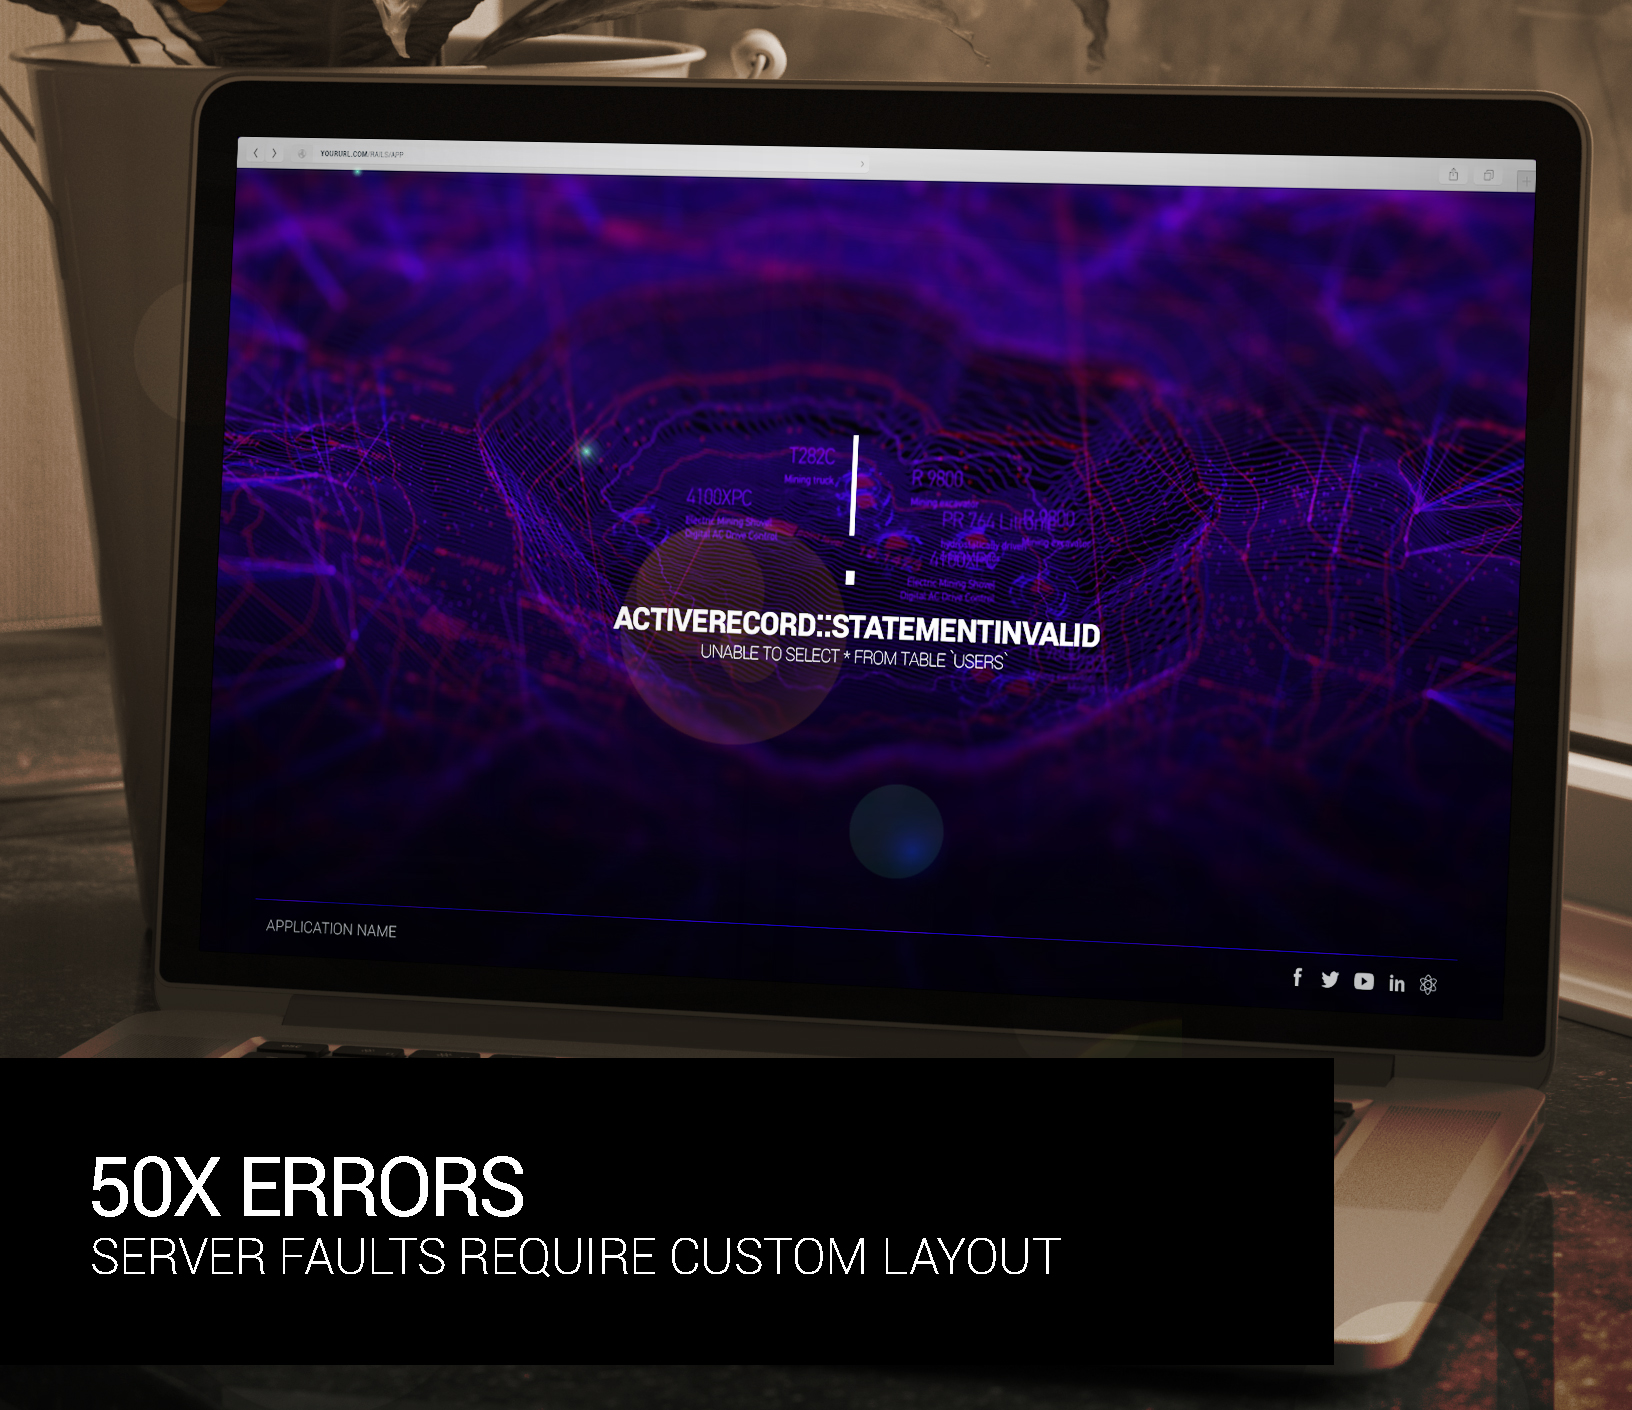
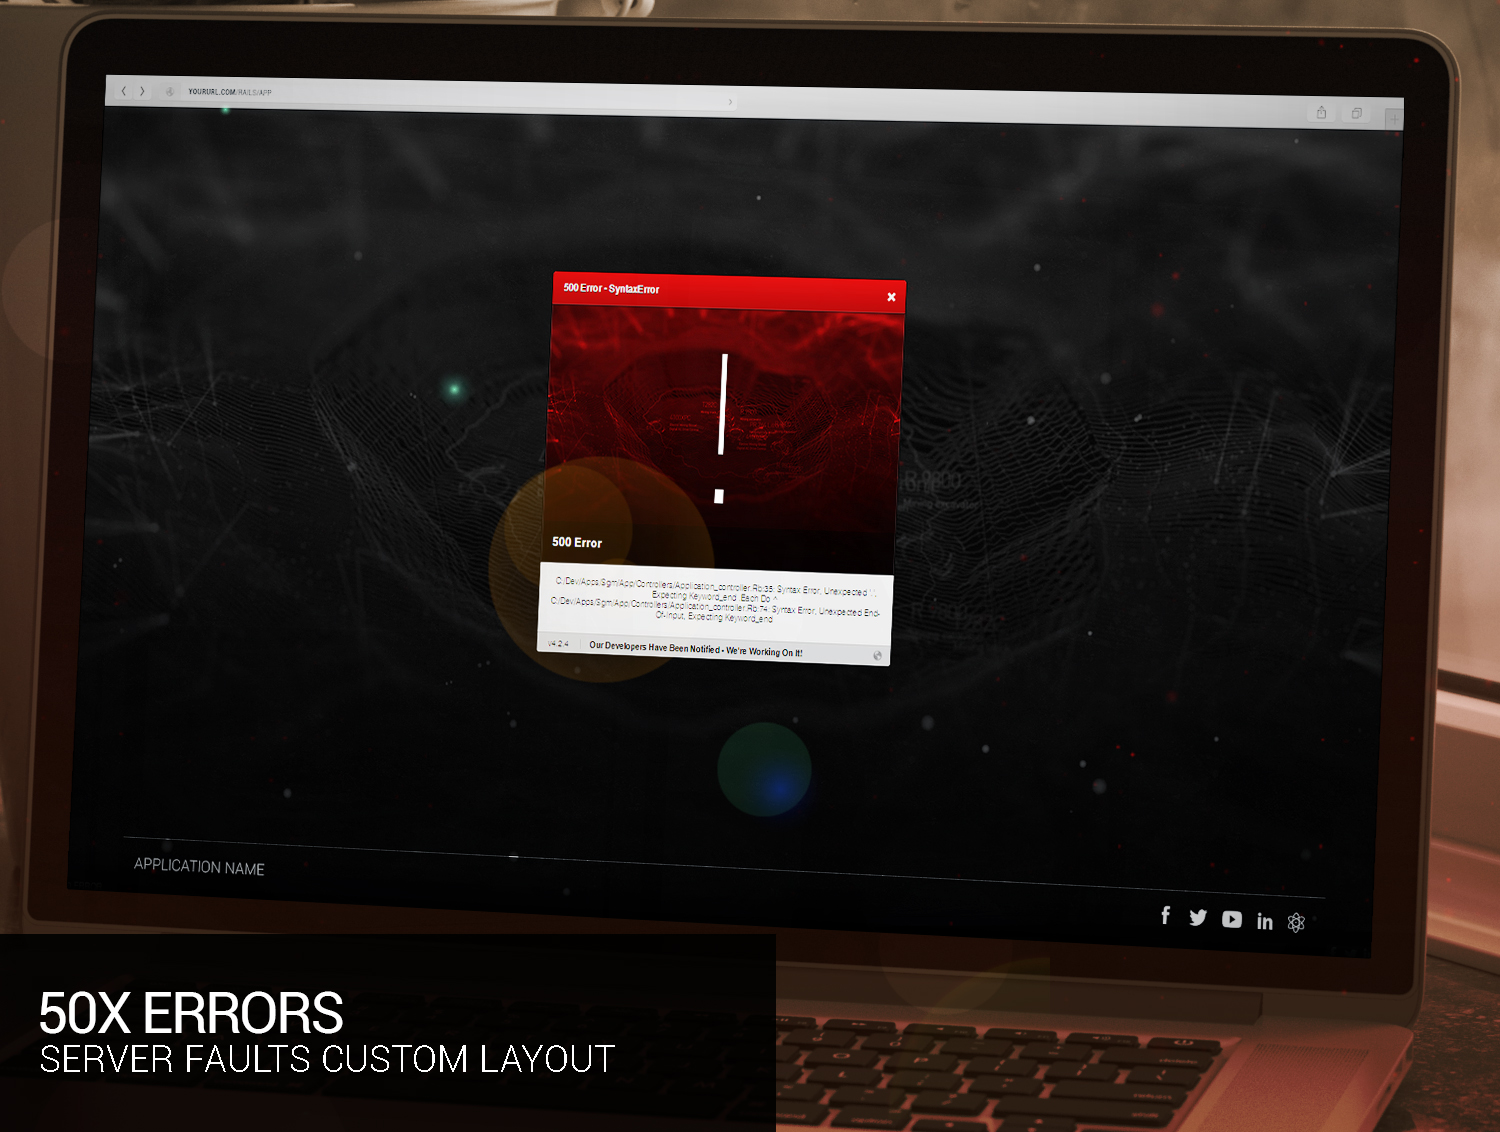
Added App

diff --git a/README.md b/README.md
@@ -23,30 +23,25 @@ It hooks into the **[`config.exceptions_app`](http://guides.rubyonrails.org/conf
 
 ![Exceptions_App middleware](/readme/exceptions_app.png)
 
-With **ExceptionHandler**, you can create custom **404, 500 production error pages**
+With **ExceptionHandler**, you can create custom **404 & 500 production error pages**:
 
 ![Exceptions_App middleware](/readme/subtitle.jpg)
 
 ---
 
-The standard Rails production error pages are not appealing, and ruin the branding of your app:
+**ExceptionHandler** catches errors in the middleware hook (`config.exceptions_app`), channeling the users to our [custom `exceptions` controller](blob/master/app/controllers/exception_handler/exception_controller.rb). It then dissects data such as the `message`, `details`, `user agent`, etc, redirect the user to a `custom view`, storing it in the db:
 
-![Exceptions_App middleware](/readme/current.png)
-
-**ExceptionHandler** catches errors in the middleware hook (`config.exceptions_app`), channeling the users to our [custom `exceptions` controller](blob/master/app/controllers/exception_handler/exception_controller.rb). Here, we dissect data such as the `message`, `details`, `user agent`, etc, redirect the user to a `custom view`, storing the data in the db.
-
-**404 Errors** | **50x Errors**
+**40x Errors** | **50x Errors**
 --- | ---
 ![404 Error Page](/readme/400.jpg "404 Error Page (Uses Application Layout)") | ![500 Error Page](/readme/500.jpg "500 Error Page (Uses Error Layout)") 
 **layouts/application.html.erb** | **layouts/errors.html.erb** 
 
---
 
 All exceptions in Rails are handled by the [`ActiveDispatch::ShowExceptions`](https://github.com/rails/rails/blob/4-0-stable/actionpack/lib/action_dispatch/middleware/show_exceptions.rb) middleware. 
 
-This is handled through a hook called `config.exceptions_app`, which is accessed through the `environment` files of rails `application.rb`, `environments/development.rb`, `environments/production.rb` etc.
+This is invoked through a hook called `config.exceptions_app`, accessed through the `environment` files of rails `application.rb`, `environments/development.rb`, `environments/production.rb` etc.
 
-Whilst it's common practice to use either `config.exceptions_app = self.routes` to handle exceptions, `ExceptionHandler` hooks its own middleware:
+Whilst it's common practice to use `config.exceptions_app = self.routes` to send exceptions to your routes, `ExceptionHandler` hooks directly into the middleware, giving us access to all the data:
 
 ![Parse](/readme/parser.jpg "Parser")
 
